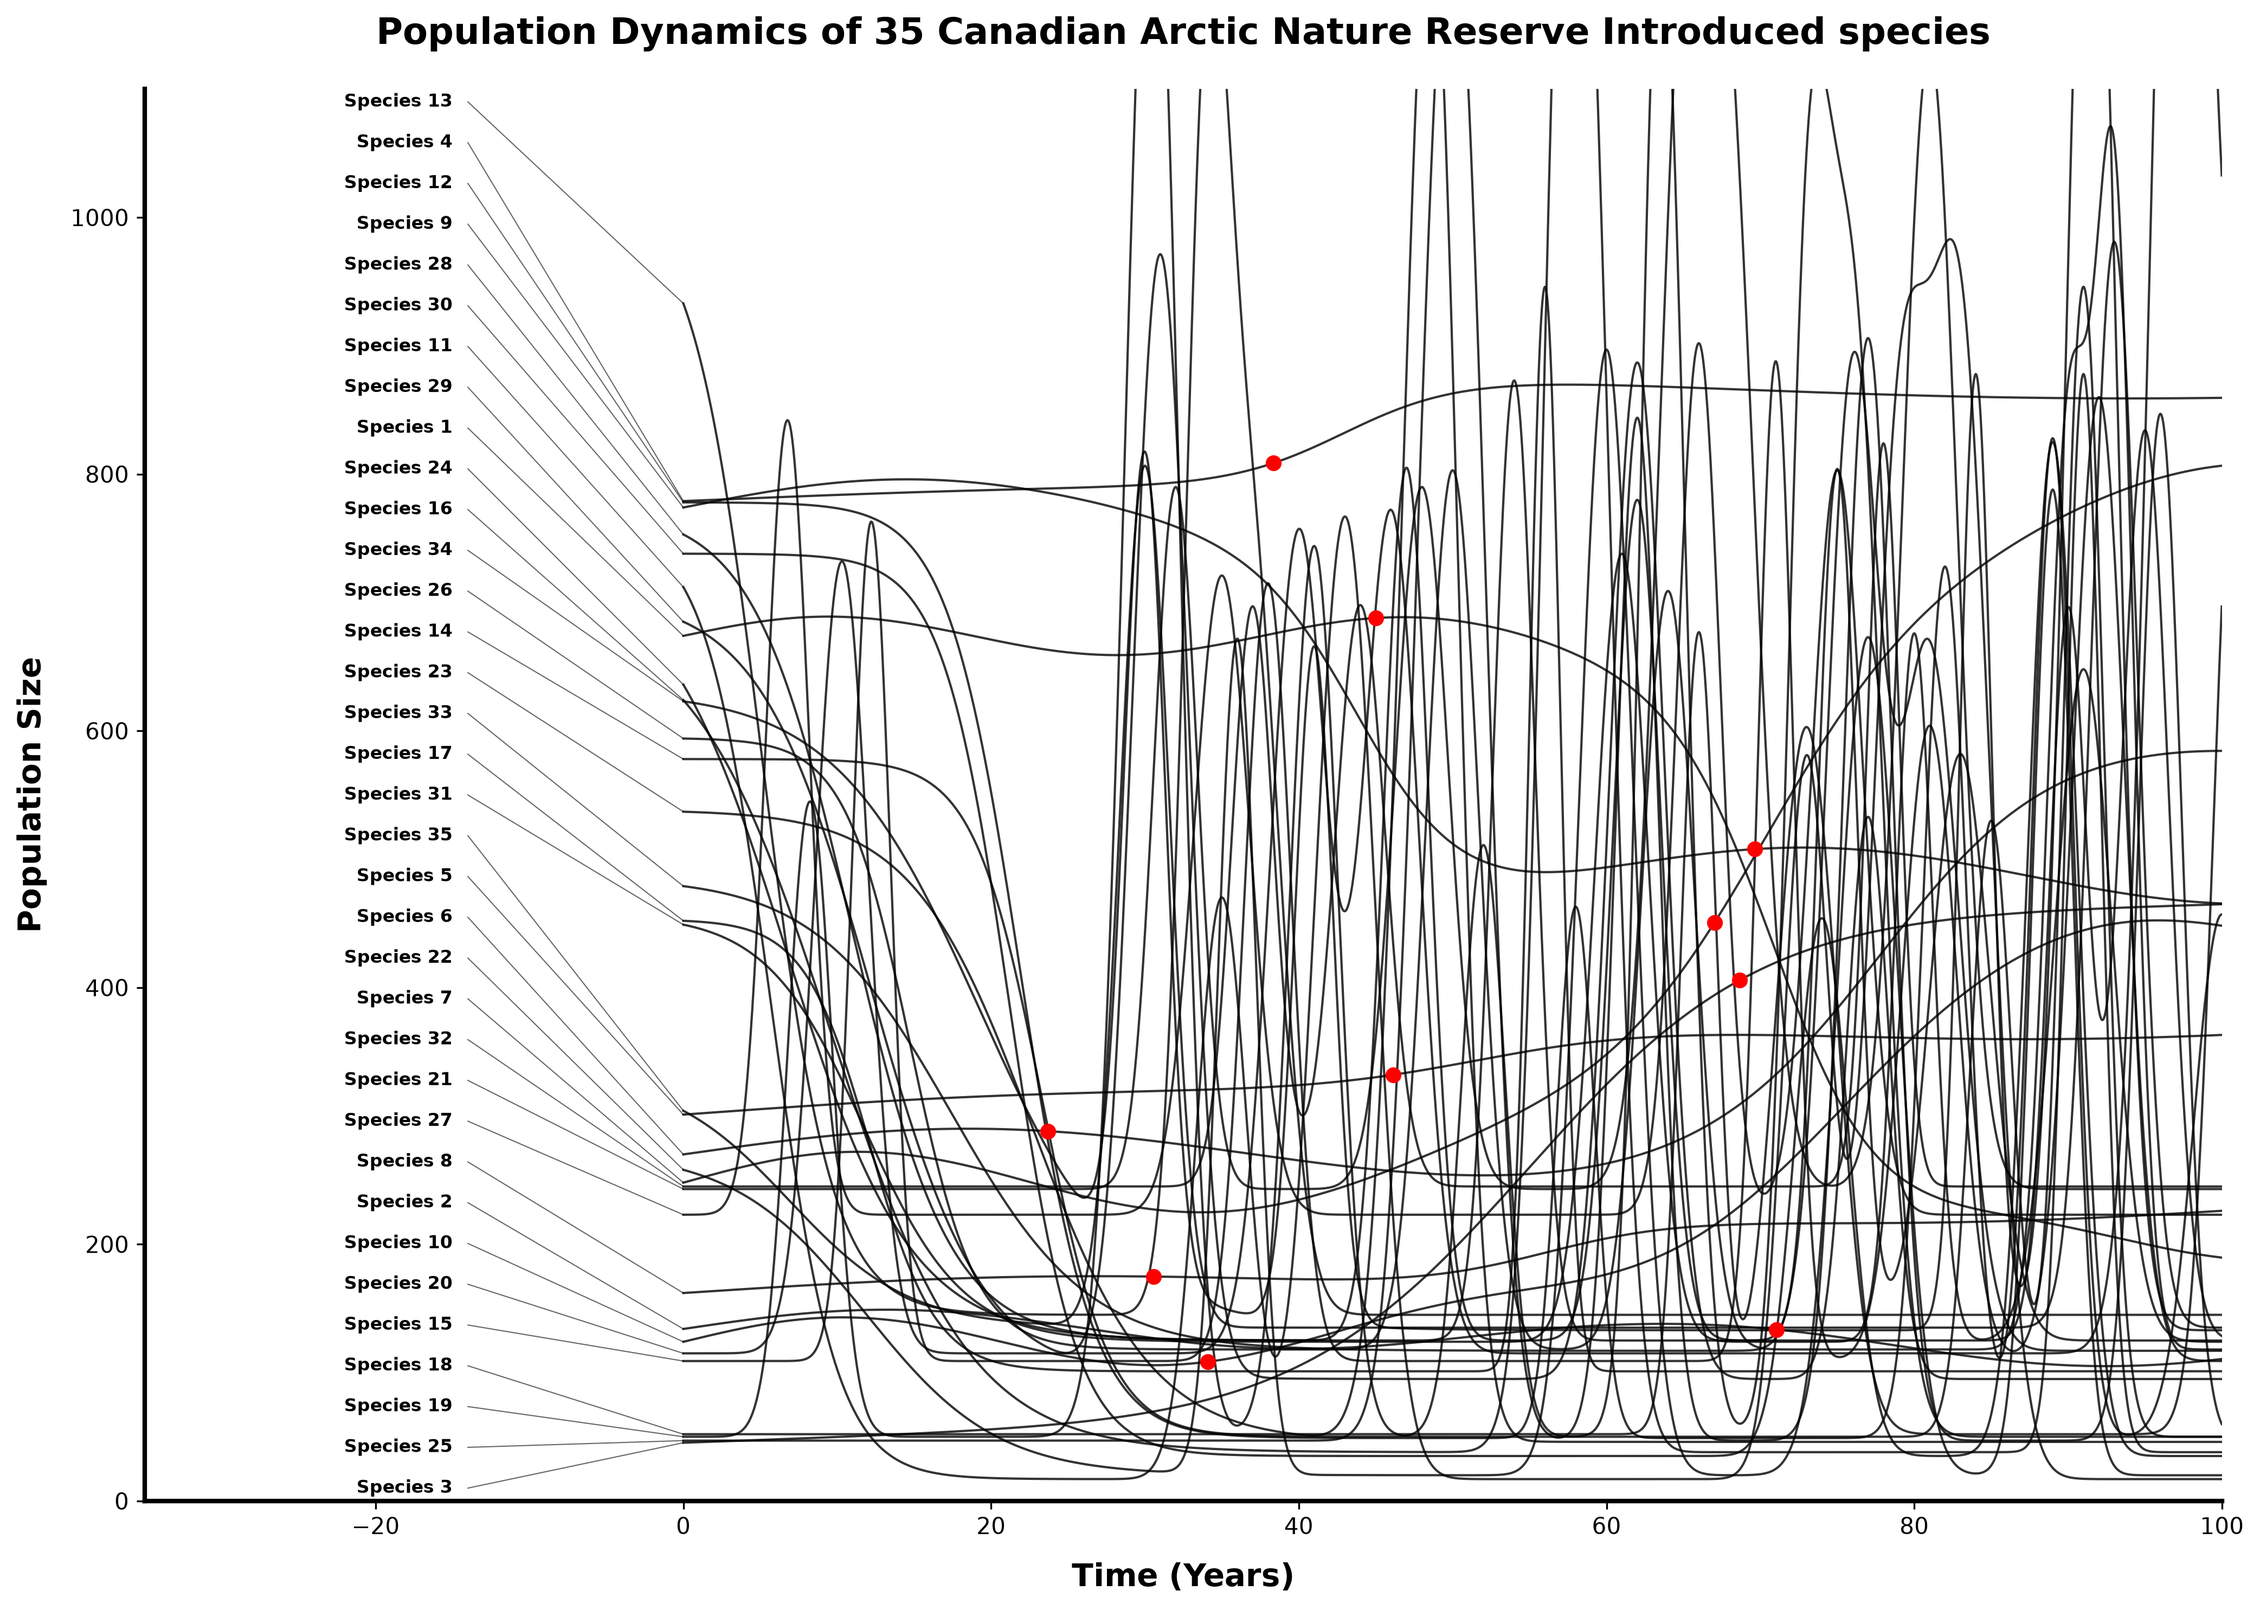
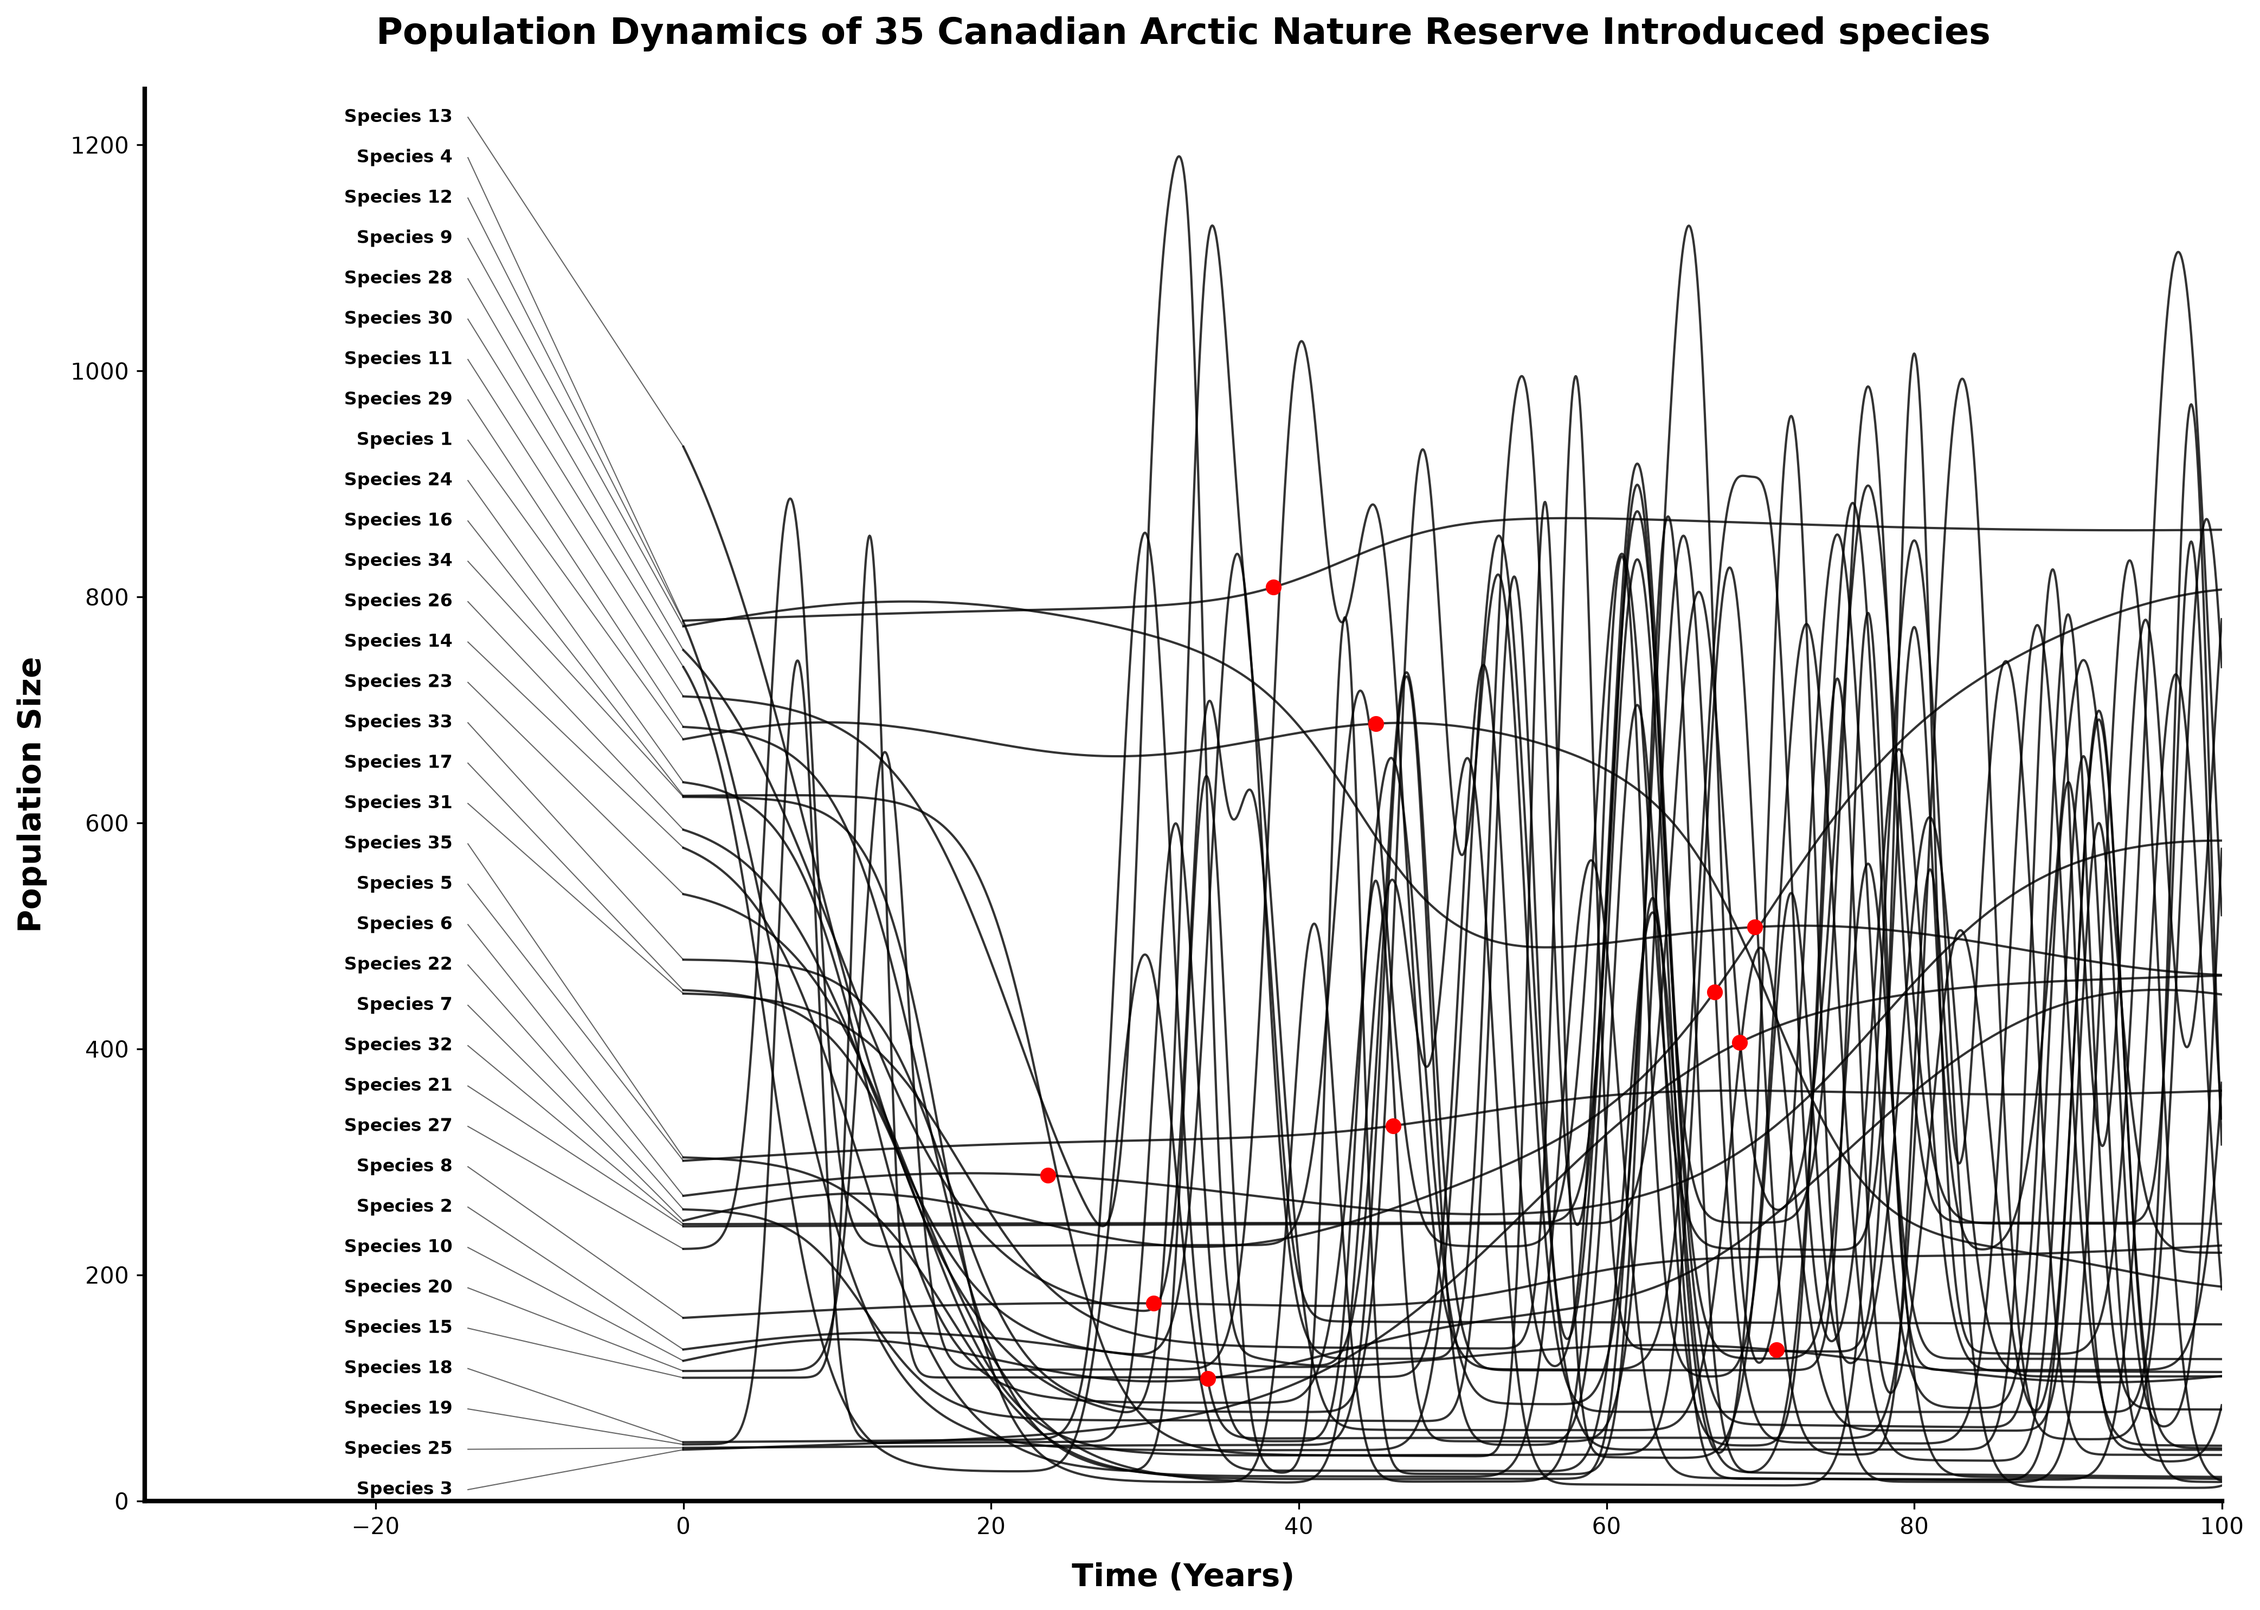
modified so lines are not stacked

diff --git a/generate-graph.py b/generate-graph.py
@@ -5,7 +5,7 @@ import random
 import sys
 
 # Generate high-resolution time data
-t = np.linspace(0, 110, 3000) # Extended slightly to calculate overlapping right-edge spikes smoothly
+t = np.linspace(0, 110, 3000)
 
 # Seed for reproducibility so the graph and JSON match every time
 np.random.seed(42)
@@ -16,7 +16,6 @@ labels = []
 ground_truth = {"species_count": 35, "k_selected_count": 10, "r_selected_count": 25, "classifications": {}}
 
 # Guarantee unique, completely mixed starting values for all 35 species
-# by pulling them all from a single combined pool
 all_target_starts = random.sample(range(20, 950), 35)
 k_starts = all_target_starts[:10]
 r_starts = all_target_starts[10:]
@@ -25,7 +24,6 @@ r_starts = all_target_starts[10:]
 # POPULATION MATH (35 Species)
 # ==========================================
 
-# Generate 10 K-selected species (Logistic growth/decline or stable carrying capacity)
 for i in range(10):
     name = f"Species {i + 1}"
     labels.append(name)
@@ -36,14 +34,11 @@ for i in range(10):
     midpoint = np.random.randint(20, 80)
     rate = np.random.uniform(0.1, 0.3)
 
-    # Base logistic curve
     pop = start_pop + (end_pop - start_pop) / (1 + np.exp(-rate * (t - midpoint)))
-    # Add minor environmental wobble typical of K-selected hovering at carrying capacity
     pop += np.random.randint(5, 25) * np.sin(t * np.random.uniform(0.05, 0.2))
 
     lines.append(pop)
 
-# Generate 25 r-selected species (Boom and bust exponential spikes)
 for i in range(25):
     name = f"Species {i + 11}"
     labels.append(name)
@@ -51,45 +46,44 @@ for i in range(25):
 
     target_start = float(r_starts[i])
 
-    # If the randomly assigned start value is high, model a staggered "delayed crash"
     if target_start > 250:
-        base_pop = float(np.random.randint(10, 150))
+        # Changed to uniform float to prevent perfect integer baseline overlaps
+        base_pop = np.random.uniform(10.0, 180.0)
 
-        # Create a logistic decline so they crash at completely random times (Years 5 to 25)
         crash_midpoint = np.random.uniform(5, 25)
         crash_rate = np.random.uniform(0.2, 0.5)
 
-        # Mathematically scale the curve so it perfectly hits `target_start` at t=0
         height = (target_start - base_pop) * (1 + np.exp(-crash_rate * crash_midpoint))
         pop = base_pop + height / (1 + np.exp(crash_rate * (t - crash_midpoint)))
-
     else:
-        # Standard low starting baseline
         base_pop = target_start
         pop = np.full_like(t, base_pop, dtype=float)
 
-        # 50% chance for low-starters to have a violent early "boom" shortly after introduction
         if random.random() > 0.5:
             early_spike = np.random.uniform(5, 15)
             early_height = np.random.randint(400, 900)
             early_width = np.random.uniform(2, 6)
             pop += early_height * np.exp(-((t - early_spike) ** 2) / early_width)
 
-    # 1 to 5 massive exponential reproduction events later in the simulation (post-introduction phase)
+    # Add a tiny unique organic drift to the baseline so horizontal lines never perfectly merge
+    pop += np.random.uniform(1, 4) * np.sin(t * np.random.uniform(0.01, 0.05))
+
     num_spikes = np.random.randint(2, 6)
     for _ in range(num_spikes):
-        # Push the spike time all the way up to 110 so they are actively oscillating at the graph's right edge
         spike_time = np.random.randint(30, 110)
         spike_height = np.random.randint(400, 900)
-        width = np.random.uniform(2, 8)  # narrowness of the spike
+        width = np.random.uniform(2, 8)
         pop += spike_height * np.exp(-((t - spike_time) ** 2) / width)
 
     lines.append(pop)
 
-# Shuffle the plotting order so they aren't visually layered strictly by type
 combined = list(zip(labels, lines))
 random.shuffle(combined)
 labels, lines = zip(*combined)
+
+# Find the absolute highest point across all species to dynamically set the Y-axis limit
+max_pop_value = max([np.max(pop) for pop in lines])
+y_limit = max(1100.0, max_pop_value * 1.05) # Add 5% breathing room at the top
 
 # ==========================================
 # EXPORT GROUND TRUTH JSON
@@ -105,34 +99,27 @@ print("Saved ground truth to ground_truth.json")
 fig, ax = plt.subplots(figsize=(14, 10))
 
 for pop in lines:
-    # We slice t and pop to only plot up to year 100, leaving the rest cut off naturally
     plot_mask = t <= 100
     ax.plot(t[plot_mask], pop[plot_mask], color='black', linewidth=1.0, solid_joinstyle='round', alpha=0.8)
 
-# Calculate start values to organize labels without overlapping lines
 start_vals = [pop[0] for pop in lines]
 sorted_indices = np.argsort(start_vals)
 
-# Create 35 evenly spaced y-coordinates for our text labels
-text_y_positions = np.linspace(10, 1090, len(lines))
+# Dynamically space text labels across the new responsive Y-axis
+text_y_positions = np.linspace(10, y_limit * 0.98, len(lines))
 
 for rank, idx in enumerate(sorted_indices):
     actual_y = start_vals[idx]
     text_y = text_y_positions[rank]
     label = labels[idx]
 
-    text_x = -15  # Pull the text back into the left margin
-
-    # Add the text label
+    text_x = -15
     ax.text(text_x, text_y, label, va='center', ha='right',
             fontsize=8, fontweight='bold', fontfamily='sans-serif')
-
-    # Draw a leader line connecting the text space to the starting population point
     ax.plot([text_x + 1, 0], [text_y, actual_y], color='black', linewidth=0.5, alpha=0.6)
 
-# Expand the left margin to -35 to give plenty of room for labels and leader lines
-ax.set_xlim(-35, 100) # Hard stop at year 100 visually
-ax.set_ylim(0, 1100)
+ax.set_xlim(-35, 100)
+ax.set_ylim(0, y_limit)
 ax.set_xlabel("Time (Years)", fontsize=14, fontweight='bold', labelpad=10)
 ax.set_ylabel("Population Size", fontsize=14, fontweight='bold', labelpad=10)
 ax.set_title("Population Dynamics of 35 Canadian Arctic Nature Reserve Introduced species", fontsize=16,
@@ -146,7 +133,6 @@ ax.grid(False)
 
 plt.tight_layout()
 
-# Save the clean version first
 plt.savefig("population_dynamics.png", dpi=300, bbox_inches='tight')
 print("Saved clean visual to population_dynamics.png")
 
@@ -154,20 +140,16 @@ print("Saved clean visual to population_dynamics.png")
 # PLOTTING THE ANNOTATED GRAPH
 # ==========================================
 
-# Add a red dot if the species is K-selected
 for i, pop in enumerate(lines):
     label = labels[i]
     if ground_truth["classifications"][label] == "K-selected":
         plot_mask = t <= 100
         visible_indices = np.where(plot_mask)[0]
-        # Pick a random point along the visible line to place the red dot
         dot_idx = random.choice(visible_indices[500:-500])
         ax.plot(t[dot_idx], pop[dot_idx], 'ro', markersize=6, zorder=5)
 
-# Save the annotated version over the same axis
 plt.savefig("population_dynamics_annotated.png", dpi=300, bbox_inches='tight')
 print("Saved annotated visual to population_dynamics_annotated.png")
 
-# Terminate script
 print("Visual generation complete. Exiting.")
 sys.exit(0)
